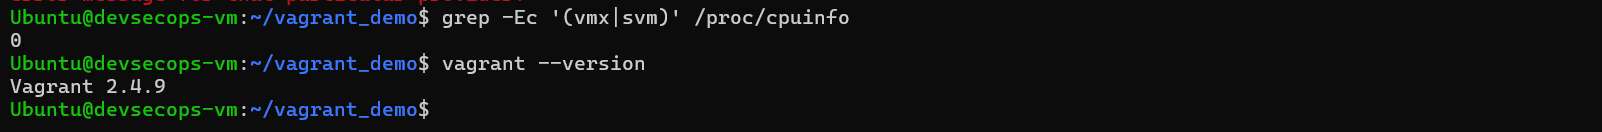
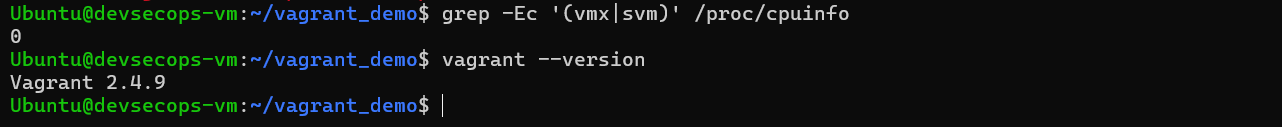
Add README and clean captures

diff --git a/README.md b/README.md
@@ -1,0 +1,99 @@
+# 🚀 TP5 — Environnements de lab reproductibles avec Vagrant
+
+**Étudiante :** Narjess Dabbech — Master DevOps & Cloud (M2) — 2026
+
+---
+
+## 📑 Sommaire
+1. [Objectifs](#1--objectifs)
+2. [Environnement](#2--environnement)
+3. [Note sur la virtualisation imbriquée](#3--note-sur-la-virtualisation-imbriquée)
+4. [Projet Vagrant](#4--projet-vagrant)
+5. [Déploiement avec Ansible (simulation)](#5--déploiement-avec-ansible-simulation)
+6. [Captures d'écran](#6--captures-décran)
+
+---
+
+## 1. 🎯 Objectifs
+- Préparer une VM de lab avec la virtualisation imbriquée (Hyper-V → VirtualBox).
+- Utiliser les commandes essentielles de Vagrant.
+- Écrire un `Vagrantfile` avec provisionnement, dossier synchronisé et redirection de port.
+- Combiner Vagrant et Ansible pour monter un lab complet.
+
+## 2. 💻 Environnement
+
+| Élément | Valeur |
+| :--- | :--- |
+| **Hôte** | Windows (Hyper-V) |
+| **VM de lab** | `devsecops-vm` (Ubuntu 22.04) |
+| **Nœud géré** | `master-2` (Ubuntu 22.04) |
+
+## 3. ⚠ Note sur la virtualisation imbriquée
+
+La virtualisation imbriquée (*nested virtualization*) n'est pas activée sur l'hôte Windows Hyper-V. Il n'a donc pas été possible d'exécuter `vagrant up` à l'intérieur de la VM de lab : Vagrant signale qu'aucun provider n'est disponible.
+
+**Contournement :** au lieu de créer de nouvelles VM avec Vagrant, j'ai réutilisé les deux VM existantes :
+- `devsecops-vm` comme contrôleur Ansible ;
+- `master-2` comme nœud géré.
+
+Le `Vagrantfile` a été rédigé conformément au TP mais **n'a pas été exécuté**. Le playbook `vagrant_demo.yml` reproduit la configuration que Vagrant aurait appliquée (installation d'Apache et déploiement du site web).
+
+## 4. 📁 Projet Vagrant
+
+Structure du projet `vagrant_demo/` :
+
+```text
+vagrant_demo/
+├── Vagrantfile
+├── vagrant_demo.yml
+├── web/
+│   └── index.html
+├── captures/
+└── README.md
+```
+
+Le `Vagrantfile` définit :
+- la box `bento/ubuntu-24.04` ;
+- un dossier synchronisé : `web/` ;
+- une redirection de port : 80 (VM) → 8080 (hôte).
+
+`web/index.html` est la page de test servie par le lab.
+
+## 5. ⚙ Déploiement avec Ansible (simulation)
+
+Le playbook `vagrant_demo.yml` installe Apache sur `master-2` et déploie le site web sur le port **8081** (le port 80 est déjà utilisé par Coolify/Traefik).
+
+**Exécution :**
+```bash
+ansible-playbook vagrant_demo.yml -K
+```
+
+**Vérification :**
+```bash
+curl http://192.168.56.20:8081
+```
+
+**Résultat attendu :**
+```html
+<h1>Bonjour depuis Vagrant</h1>
+```
+
+## 6. 📸 Captures d'écran
+
+### 6.1 Virtualisation imbriquée et version de Vagrant
+![Virtualisation imbriquée](captures/nested-virt.png)
+
+### 6.2 Statut de Vagrant (provider non disponible)
+![Statut Vagrant](captures/vagrant-status.png)
+
+### 6.3 Démo Vagrant (site web sur le port 8081)
+![Démo Vagrant](captures/vagrant-demo.png)
+
+### 6.4 Services du lab (Jenkins, Portainer, Nginx)
+![Services du lab](captures/lab-services.png)
+
+---
+
+## 👤 Auteur
+**Narjess Dabbech** — Master DevOps & Cloud — 2026
+GitHub : [@Narjess805](https://github.com/Narjess805)
